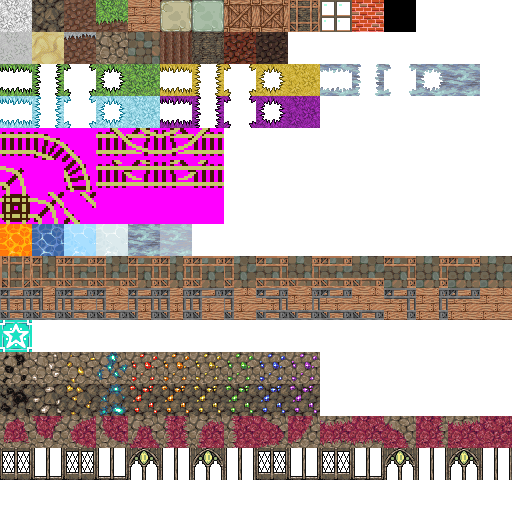
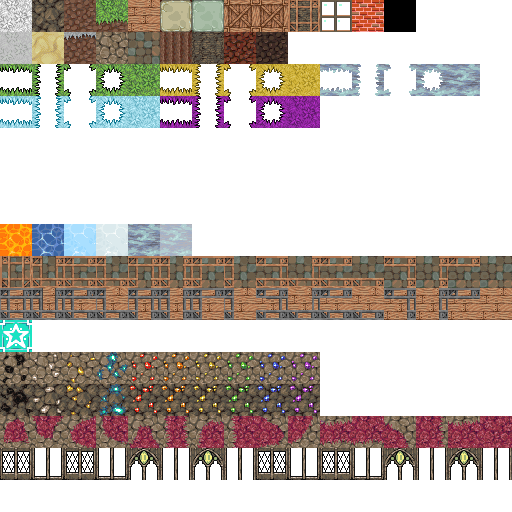
Rail has its own asset, combinations detected properly

Changed region(s): [[0.0, 0.25, 0.4375, 0.4375]]

diff --git a/DwarfCorp/DwarfCorpXNA/Scripting/Player/Tools/BuildRailTool.cs b/DwarfCorp/DwarfCorpXNA/Scripting/Player/Tools/BuildRailTool.cs
@@ -154,9 +154,9 @@ namespace DwarfCorp
             bool leftKey = state.IsKeyDown(ControlSettings.Mappings.RotateObjectLeft);
             bool rightKey = state.IsKeyDown(ControlSettings.Mappings.RotateObjectRight);
             if (LeftPressed && !leftKey)
-                Pattern = Pattern.Rotate(Rail.Orientations.East);
+                Pattern = Pattern.Rotate(Rail.Orientation.East);
             if (RightPressed && !rightKey)
-                Pattern = Pattern.Rotate(Rail.Orientations.West);
+                Pattern = Pattern.Rotate(Rail.Orientation.West);
             LeftPressed = leftKey;
             RightPressed = rightKey;
 
@@ -203,11 +203,27 @@ namespace DwarfCorp
             {
                 if (Object.ReferenceEquals(entity, PreviewEntity)) continue;
 
-                // Todo: Check for rail pieces we can combine with
+                if (FindPossibleCombination(Piece, entity) != null)
+                    return true;
+
                 return false;
             }
 
             return true;
+        }
+
+        private static Rail.RailCombination FindPossibleCombination(Rail.JunctionPiece Piece, IBoundedObject Entity)
+        {
+            if (Entity is RailPiece)
+            {
+                var baseJunction = (Entity as RailPiece).Piece;
+                var basePiece = Rail.RailLibrary.GetRailPiece(baseJunction.RailPiece);
+                var relativeOrientation = Rail.OrientationHelper.Relative(baseJunction.Orientation, Piece.Orientation);
+                var matchingCombination = basePiece.CombinationTable.FirstOrDefault(c => c.Overlay == Piece.RailPiece && c.OverlayRelativeOrientation == relativeOrientation);
+                return matchingCombination;
+            }
+
+            return null;
         }
 
         private bool CanPlace(VoxelHandle Location)

diff --git a/DwarfCorp/DwarfCorpXNA/Voxels/Rail/Orientation.cs b/DwarfCorp/DwarfCorpXNA/Voxels/Rail/Orientation.cs
@@ -5,8 +5,7 @@ using System.Text;
 
 namespace DwarfCorp.Rail
 {
-    // These corrospond to decal orientation values
-    public enum Orientations
+    public enum Orientation
     {
         North = 0,
         East = 1,
@@ -14,11 +13,24 @@ namespace DwarfCorp.Rail
         West = 3
     }
 
-    public class Orientation
+    public class OrientationHelper
     {
-        public static Orientations Rotate(Orientations In, int Ammount)
+        public static Orientation Rotate(Orientation In, int Ammount)
         {
-            return (Orientations)(((int)In + Ammount) % 4);
+            return (Orientation)(((int)In + Ammount) % 4);
+        }
+
+        public static Orientation Relative(Orientation Base, Orientation Top)
+        {
+            int c = 0;
+
+            while (Base != Top)
+            {
+                Base = Rotate(Base, 1);
+                c += 1;
+            }
+
+            return (Orientation)c;
         }
     }
 }

diff --git a/DwarfCorp/DwarfCorpXNA/Voxels/Rail/JunctionPattern.cs b/DwarfCorp/DwarfCorpXNA/Voxels/Rail/JunctionPattern.cs
@@ -10,7 +10,7 @@ namespace DwarfCorp.Rail
     {
         public Point Offset;
         public String RailPiece;
-        public Orientations Orientation;
+        public Orientation Orientation;
     }
 
     public class JunctionPattern
@@ -27,13 +27,13 @@ namespace DwarfCorp.Rail
                     {
                         Offset = new Point(piece.Offset.Y, -piece.Offset.X),
                         RailPiece = piece.RailPiece,
-                        Orientation = Orientation.Rotate(piece.Orientation, 1)
+                        Orientation = OrientationHelper.Rotate(piece.Orientation, 1)
                     }
                 ).ToList()
             };
         }
 
-        public JunctionPattern Rotate(Orientations Orientation)
+        public JunctionPattern Rotate(Orientation Orientation)
         {
             var orient = (byte)Orientation;
             var r = this;

diff --git a/DwarfCorp/DwarfCorpXNA/Voxels/Rail/RailPiece.cs b/DwarfCorp/DwarfCorpXNA/Voxels/Rail/RailPiece.cs
@@ -6,20 +6,20 @@ using Microsoft.Xna.Framework;
 
 namespace DwarfCorp.Rail
 {
-    public class RailConversionEntry
+    public class RailCombination
     {
-        public DecalOrientation ThisOrientation;
-        public String OverlayDecal;
-        public DecalOrientation OverlayOrientation;
-        public String ResultDecal;
-        public DecalOrientation ResultOrientation;
+        public String Overlay;
+        public Orientation OverlayRelativeOrientation;
+
+        public String Result;
+        public Orientation ResultRelativeOrientation;
     }
 
     public class RailPiece
     {
-        public String Name;
-        public Point Tile;
-        public List<RailConversionEntry> ConversionTable;
+        public String Name = "";
+        public Point Tile = Point.Zero;
+        public List<RailCombination> CombinationTable = new List<RailCombination>();
 
     }
 }

diff --git a/DwarfCorp/DwarfCorpXNA/Entities/Fixtures/RailPiece.cs b/DwarfCorp/DwarfCorpXNA/Entities/Fixtures/RailPiece.cs
@@ -46,7 +46,7 @@ namespace DwarfCorp
         , IRenderableComponent
 #endif
     {
-        private Rail.JunctionPiece Piece;
+        public Rail.JunctionPiece Piece;
 
         public RailPiece()
         {
@@ -58,8 +58,10 @@ namespace DwarfCorp
             VoxelHandle Location,
             Rail.JunctionPiece Piece) :
 
-            base(Manager, "Fixture", Matrix.CreateTranslation(Location.WorldPosition + new Vector3(Piece.Offset.X, 0, Piece.Offset.Y)), Vector3.One,
-                Location.WorldPosition,
+            base(Manager, "Fixture", 
+                Matrix.CreateTranslation(Location.WorldPosition + new Vector3(Piece.Offset.X, 0, Piece.Offset.Y)), 
+                Vector3.One,
+                Vector3.Zero,
                 true)
         {
             this.Piece = Piece;

diff --git a/DwarfCorp/DwarfCorpXNA/AssetManagement/ContentPaths.cs b/DwarfCorp/DwarfCorpXNA/AssetManagement/ContentPaths.cs
@@ -61,7 +61,7 @@ namespace DwarfCorp
         public static string rail_junctions = ProgramData.CreatePath("Content", "rail-junctions.json");
 
         // Todo: Move to own texture.
-        public static string rail_tiles = ProgramData.CreatePath("Terrain", "terrain_tiles");
+        public static string rail_tiles = ProgramData.CreatePath("Terrain", "rail");
 
         public class Audio
     {

diff --git a/DwarfCorp/DwarfCorpXNA/Components/Body.cs b/DwarfCorp/DwarfCorpXNA/Components/Body.cs
@@ -83,10 +83,10 @@ namespace DwarfCorp
                     return;
                 }
 
-                if(!Active)
-                {
-                    return;
-                }
+                //if(!Active)
+                //{
+                //    return;
+                //}
 
                 if (!ExceedsMovementThreshold && wasEverAddedToOctree)
                     return;
